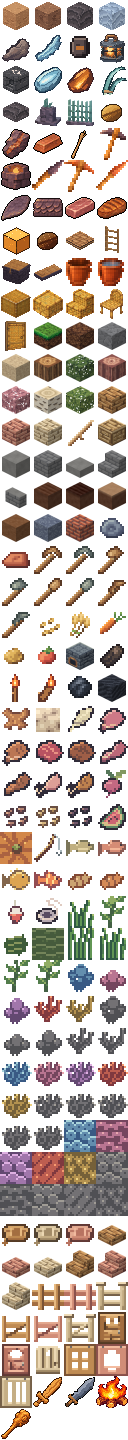
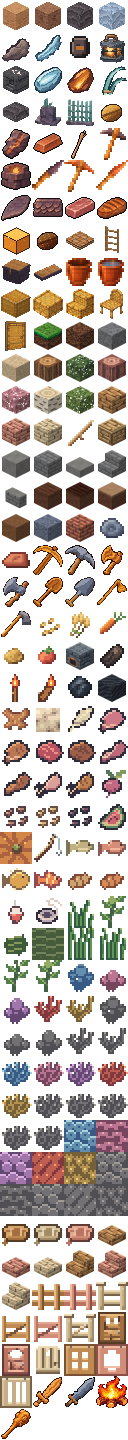
Arte nova das ferramentas do Orvalis (v0.228.0): 8 ícones de 32 px (itens 70–77)
Os ícones de picareta, machado, pá e enxada (madeira e pedra) passam da lista de 16 px para a de 32 px com a arte do dono; máscaras da mão regeneradas. Sem mudança de regra ou de save.

Claude-Session: https://claude.ai/code/session_01KGdgoniDf5SwPMM31qtkm2

Changed region(s): [[0.25, 0.375, 0.75, 0.4375], [0.0312, 0.375, 0.25, 0.4688], [0.7812, 0.375, 0.9688, 0.4375]]

diff --git a/scripts/make-orvalis-espadas.py b/scripts/make-orvalis-espadas.py
@@ -1,4 +1,4 @@
-"""Espadas de madeira e de pedra (ADR 0145), Clava de Madeira (ADR 0148) e Fogueira (ADR 0146) do Orvalis: ícone de 32 × 32 a partir da arte grande enviada pelo dono.
+"""Espadas de madeira e de pedra (ADR 0145), Clava de Madeira (ADR 0148) e Fogueira (ADR 0146) e as 8 ferramentas de madeira e pedra (ADR 0112) do Orvalis: ícone de 32 × 32 a partir da arte grande enviada pelo dono.
 
 Entradas : assets-src/orvalis-voxel/espadas/{espada_madeira,espada_pedra,clava_madeira}_fonte.png  (1254 × 1254, pixel art ampliada e suavizada, fundo transparente)
 Saídas   : assets-src/orvalis-voxel/assets32/orvalis_{espada_madeira,espada_pedra,clava_madeira,fogueira_acesa}_32x32.png (a fogueira lê `assets-src/orvalis-voxel/fogueira/fogueira_acesa_fonte.png`)  (o item entra em assets-src/titan/arte32/itens.json; regra 32 px, ADR 0143)
@@ -54,3 +54,7 @@ for nome in ('espada_madeira', 'espada_pedra', 'clava_madeira'):
 # Fogueira do Orvalis (ADR 0146, arte nova de 28/11/2026): a chama tem degradê, então paleta maior; ocupa a célula inteira (o modelo é do tamanho de um bloco)
 reduz('fogueira_acesa_fonte.png', 'assets-src/orvalis-voxel/fogueira/', 48, 0).save(f'{OUT}orvalis_fogueira_acesa_32x32.png')
 print('ok fogueira_acesa')
+# Ferramentas do Orvalis (ADR 0112) com a arte nova do dono (28/11/2026): pá, enxada, picareta e machado, de madeira e de pedra, ícones de 32 px
+for nome in ('picareta_madeira', 'picareta_pedra', 'machado_madeira', 'machado_pedra', 'pa_madeira', 'pa_pedra', 'enxada_madeira', 'enxada_pedra'):
+    reduz(f'{nome}_fonte.png', 'assets-src/orvalis-voxel/ferramentas/').save(f'{OUT}orvalis_{nome}_32x32.png')
+    print('ok', nome)

diff --git a/docs/CHANGELOG.md b/docs/CHANGELOG.md
@@ -1,5 +1,9 @@
 # Changelog
 
+## Orvalis v0.228.0 — Arte nova das ferramentas (28/11/2026)
+- **Arte (ADR 0112/0143, adendo).** Picareta, machado, pá e enxada, de madeira e de pedra (itens 70–77), passam a usar a arte nova do dono: ícones de **32 px** (`make-orvalis-espadas.py`, que agora reduz as 8 fontes em `assets-src/orvalis-voxel/ferramentas/`) e `itemMasks.json` regenerado, então a mão extruda o desenho novo. Os 8 saíram de `arte16/itens.json` e entraram em `arte32/itens.json` (um item nunca está nas duas listas). Sem mudança de regra, de id nem de save; atlas de itens segue 4 × 45.
+- 848 testes passam; tsc limpo.
+
 ## Orvalis v0.227.0 — Grunhos na sala 102: 4 acampamentos de 12 (etapa 3, 28/11/2026)
 - **ADR 0147, etapa 3.** A **Aldeia da Costa v101** ganha **4 acampamentos de 12 Grunhos fora do muro** (oeste, sudoeste, nordeste e sudeste): clareira plana de terra batida, rampa suave, sem árvore perto, **Fogueira** no centro (luz 15) e os goblins numa roda de 3,5 m. **O arquivo salvo da sala 102 (versão 100) foi descartado** (autorizado pelo dono): a sala recusa a versão 100 e começa de novo; o servidor guarda o antigo numa cópia `.bak`.
 - **Protocolo 7:** mensagem `grunhos`, ação `strikeGrunho`, `hurt` do tipo `grunho`. A sala simula os goblins (perseguem, golpeiam, voltam e se curam), o aparelho espelha, mira e golpeia (vence o bloco e os bichos mais longe); abatido, o Grunho solta a Clava de Madeira com 25% de chance e volta em 10 min.
